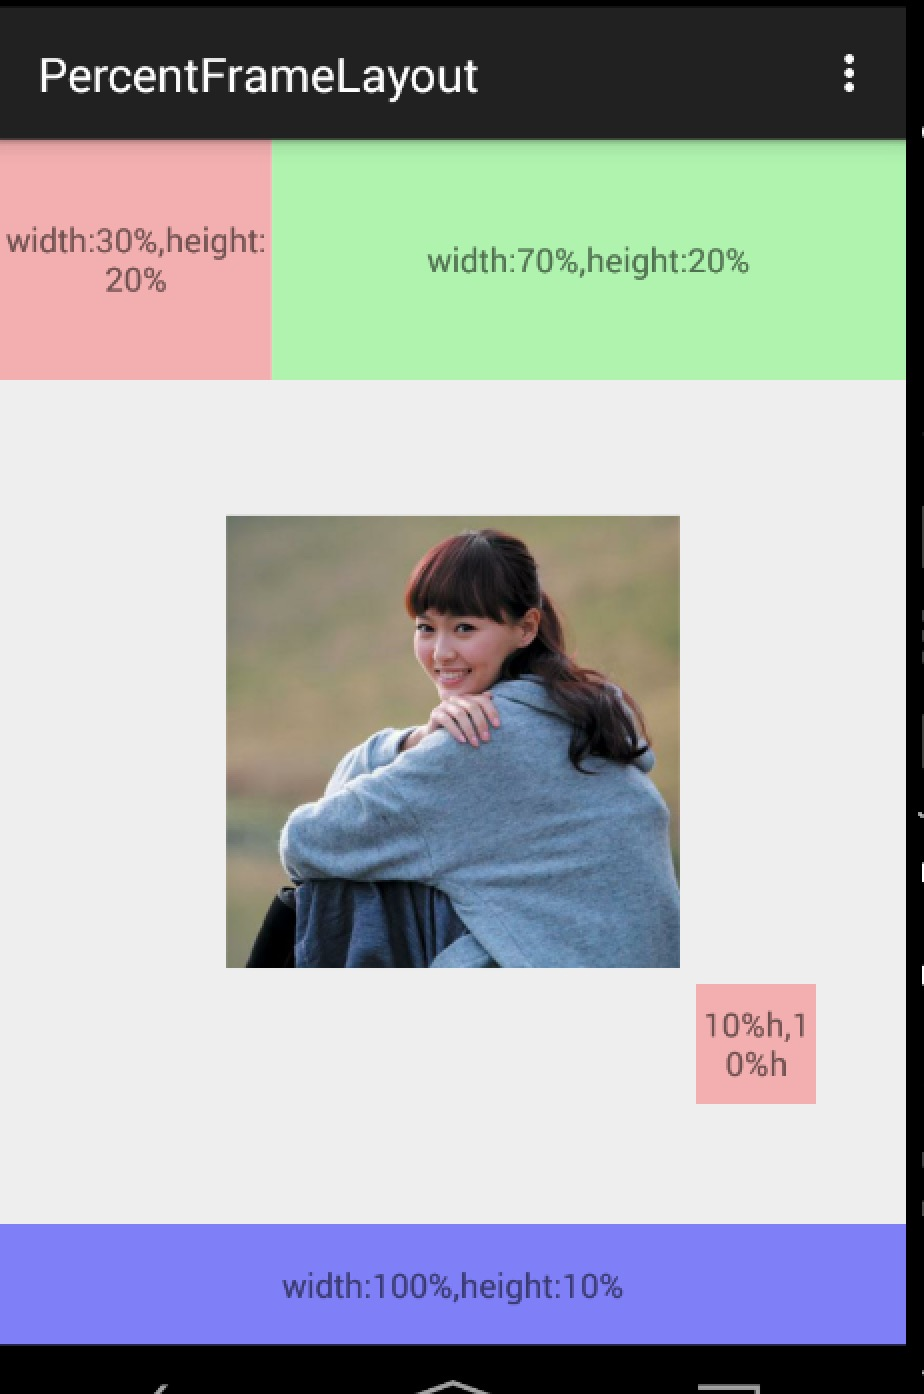
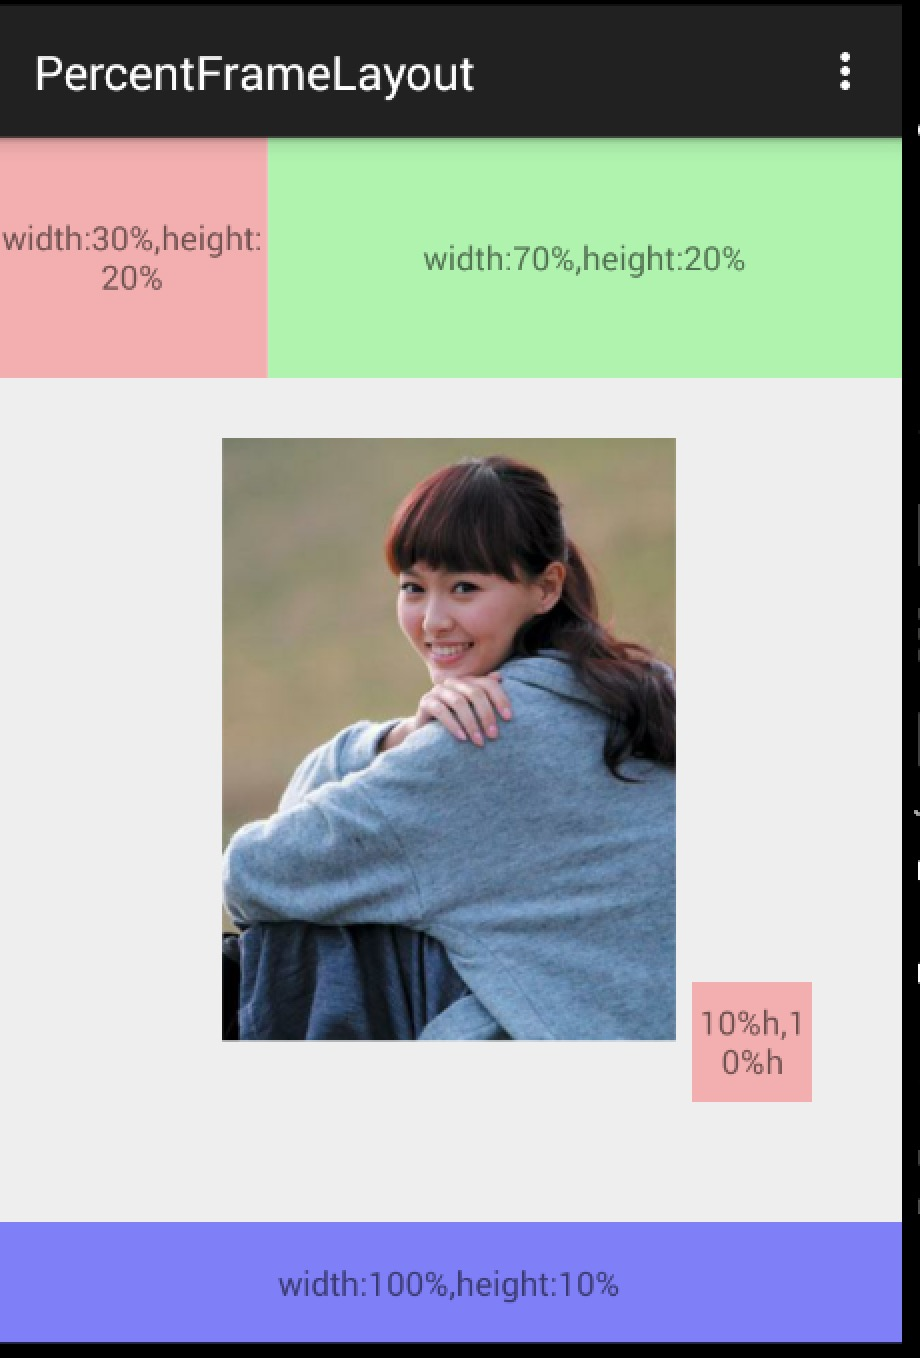
update md

diff --git a/README.md b/README.md
@@ -41,6 +41,12 @@
 	`app:layout_marginBottomPercent="20%h"`.
 4. 支持通过app:layout_textSizePercent设置textView的textSize
 5. 对于外层套ScrollView的问题，目前可以在`PercentLinearLayout `的外层使用ScrollView，不过对于宽度的百分比参考的就是android.R.id.content的高度(因为，无法参考父控件的高度，父控件的高度理论上依赖于子View高度，且模式为UNSPECIFIED)。
+6. 支持`app:layout_maxWidthPercent`,
+`app:layout_maxHeightPercent`,
+`app:layout_minWidthPercent`,
+`app:layout_minWidthPercent`的支持。
+
+	（注：用法和maxHeight等一致，如果使用：值会覆盖原本的maxHeight等属性）。
 	
 ## 三 用法
 	
@@ -49,7 +55,7 @@
 ```xml
 dependencies {
     //...
-    compile 'com.zhy:percent-support-extends:1.0.1'
+    compile 'com.zhy:percent-support-extends:1.0.4'
 }
 
 ```
@@ -87,6 +93,8 @@ com.zhy.android.percent.support.PercentFrameLayout
 #### Demo 1
 
 <img src="sc_02.png" width="320px"/>
+
+<img src="sc_02_full.png"/>
 
 xml:
 
@@ -151,54 +159,45 @@ xml:
 
 <img src="sc_03.png" width="320px"/>
 
+<img src="sc_03_full.png"/>
+
 xml:
 
 ```xml
 <?xml version="1.0" encoding="utf-8"?>
-<com.zhy.android.percent.support.PercentRelativeLayout
+<com.zhy.android.percent.support.PercentFrameLayout
     xmlns:android="http://schemas.android.com/apk/res/android"
     xmlns:app="http://schemas.android.com/apk/res-auto"
     android:layout_width="match_parent"
-    android:layout_height="match_parent"
-    android:clickable="true">
+    android:layout_height="match_parent">
 
     <TextView
-        android:id="@+id/row_one_item_one"
+        android:id="@+id/id_test"
         android:layout_width="0dp"
         android:layout_height="0dp"
-        android:layout_alignParentTop="true"
-        android:background="#7700ff00"
-        android:text="w:70%,h:20%"
+        android:layout_gravity="left|top"
+        android:background="#44ff0000"
         android:gravity="center"
+        android:onClick="test1"
+        android:text="width:30%,height:20%"
+        app:layout_heightPercent="20%"
+        app:layout_widthPercent="30%"/>
+
+    <TextView
+        android:layout_width="0dp"
+        android:layout_height="0dp"
+        android:layout_gravity="right|top"
+        android:background="#4400ff00"
+        android:gravity="center"
+        android:text="width:70%,height:20%"
         app:layout_heightPercent="20%"
         app:layout_widthPercent="70%"/>
 
-    <TextView
-        android:id="@+id/row_one_item_two"
-        android:layout_width="0dp"
-        android:layout_height="0dp"
-        android:layout_toRightOf="@+id/row_one_item_one"
-        android:background="#396190"
-        android:text="w:30%,h:20%"
-        app:layout_heightPercent="20%"
-        android:gravity="center"
-        app:layout_widthPercent="30%"/>
-
-
-    <ImageView
-        android:id="@+id/row_two_item_one"
-        android:layout_width="match_parent"
-        android:layout_height="0dp"
-        android:src="@drawable/tangyan"
-        android:scaleType="centerCrop"
-        android:layout_below="@+id/row_one_item_one"
-        android:background="#d89695"
-        app:layout_heightPercent="70%"/>
 
     <TextView
         android:layout_width="0dp"
         android:layout_height="0dp"
-        android:layout_below="@id/row_two_item_one"
+        android:layout_gravity="bottom"
         android:background="#770000ff"
         android:gravity="center"
         android:text="width:100%,height:10%"
@@ -206,7 +205,30 @@ xml:
         app:layout_widthPercent="100%"/>
 
 
-</com.zhy.android.percent.support.PercentRelativeLayout>
+    <ImageView
+        android:layout_width="wrap_content"
+        android:layout_height="wrap_content"
+        android:layout_gravity="center"
+        android:scaleType="centerCrop"
+        android:src="@drawable/tangyan"
+        app:layout_heightPercent="50%h"
+        app:layout_widthPercent="50%w"/>
+
+    <TextView
+        android:layout_width="0dp"
+        android:layout_height="0dp"
+        app:layout_heightPercent="10%h"
+        app:layout_widthPercent="10%h"
+        android:text="10%h,10%h"
+        android:gravity="center"
+        android:layout_gravity="bottom|right"
+        android:background="#44ff0000"
+        app:layout_marginBottomPercent="20%h"
+        app:layout_marginRightPercent="10%"/>
+
+
+</com.zhy.android.percent.support.PercentFrameLayout>
+
 
 
 ```
@@ -319,6 +341,7 @@ xml:
 
 * [博客](http://blog.csdn.net/lmj623565791)
 * [新浪微博](http://weibo.com/u/3165018720)
+*  email: 623565791@qq.com
 * >微信公众号：hongyangAndroid
 （欢迎关注，第一时间推送博文信息）
 <img  src="http://img.my.csdn.net/uploads/201501/30/1422600516_2905.jpg" width="200px"/>
